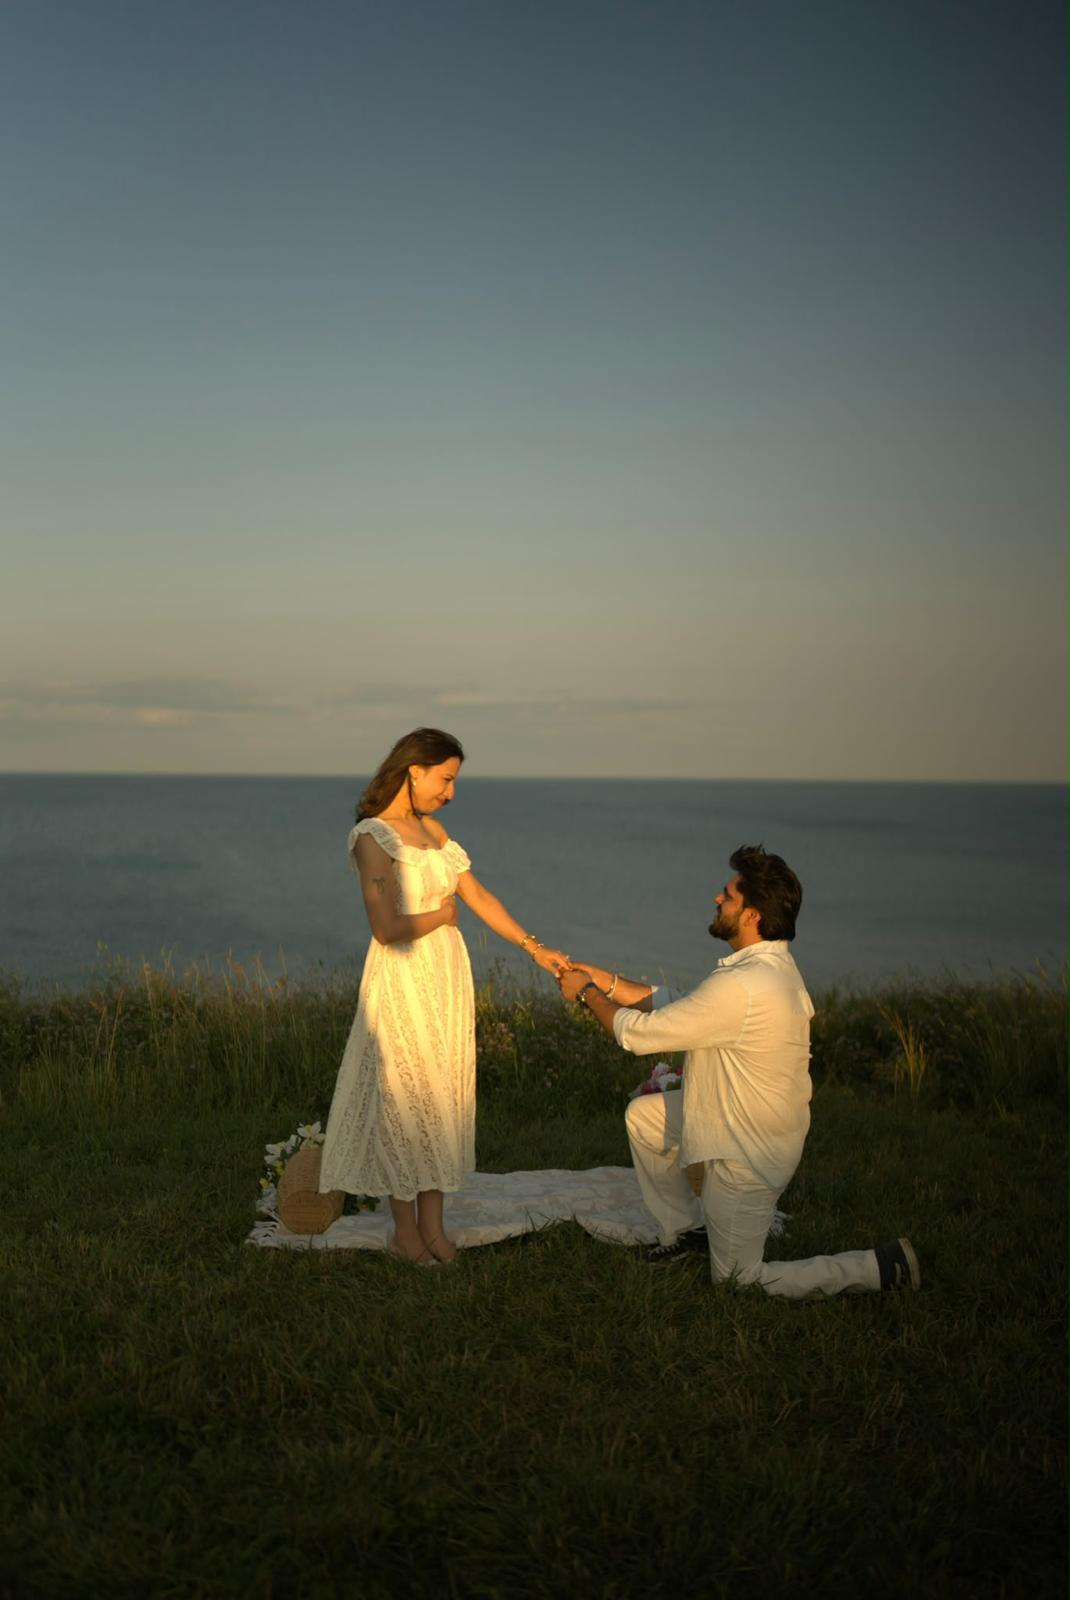
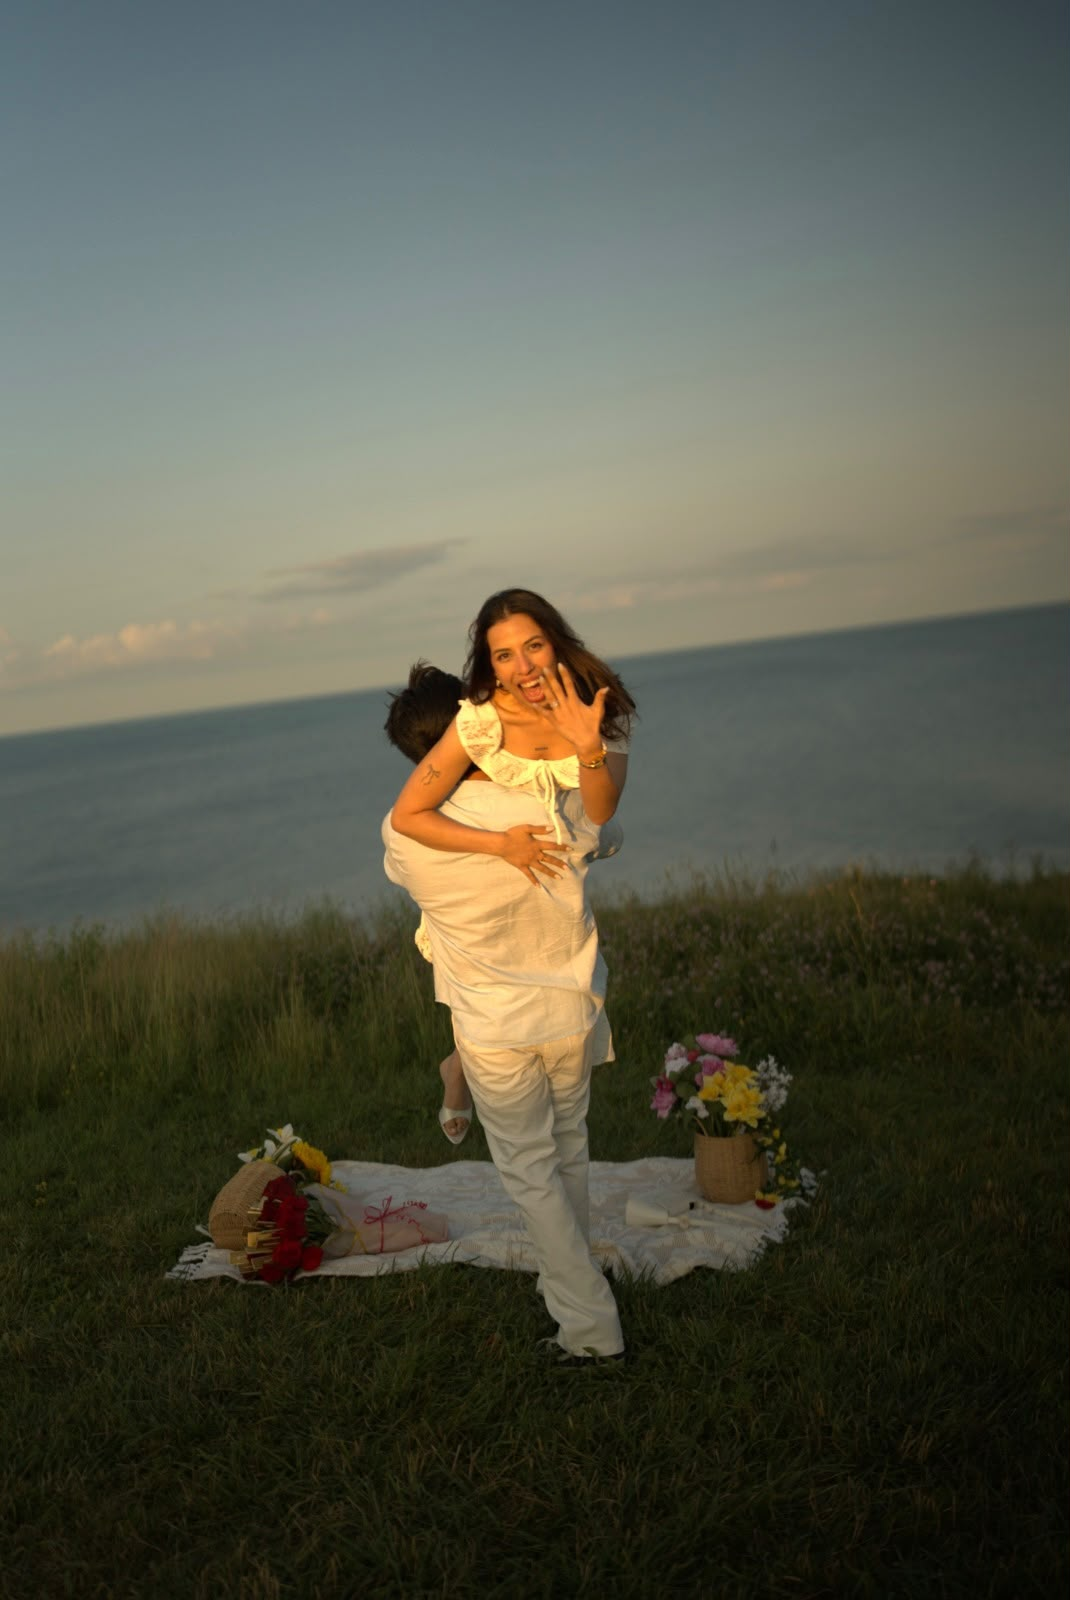
Update the proposal photos and tell the evening in order
1, 2, 3 are now the question, the ring, and the two of them after. Alt text
describes each rather than repeating one generic line, and the intrinsic
width and height are per photo since the first is 1370x2048 and the other
two are 1070x1600.

Also untracks the copies at the repo root that the previous commit picked
up; src/assets holds the originals.

diff --git a/src/components/Proposal.jsx b/src/components/Proposal.jsx
@@ -1,15 +1,31 @@
 import Reveal from './Reveal.jsx';
 
 /* Imported as modules so Vite fingerprints them into /assets and the paths
-   resolve from any route or host -- no relative-path breakage. */
+   resolve from any route or host -- no relative-path breakage.
+   The order is the order of the evening: the question, the yes, the after. */
 import photo1 from '../assets/1.jpeg';
 import photo2 from '../assets/2.jpeg';
 import photo3 from '../assets/3.jpeg';
 
 const photos = [
-  { src: photo1, alt: 'Vaishali and Sumit on the day he asked' },
-  { src: photo2, alt: 'Vaishali and Sumit celebrating the proposal' },
-  { src: photo3, alt: 'Vaishali and Sumit together after the proposal' },
+  {
+    src: photo1,
+    width: 1370,
+    height: 2048,
+    alt: 'Sumit down on one knee, holding Vaishali’s hand, on the grass above the lake at sunset',
+  },
+  {
+    src: photo2,
+    width: 1070,
+    height: 1600,
+    alt: 'Sumit lifting Vaishali off her feet as she holds up her hand to show the ring',
+  },
+  {
+    src: photo3,
+    width: 1070,
+    height: 1600,
+    alt: 'Vaishali and Sumit sitting together among flowers, she is holding sunflowers',
+  },
 ];
 
 export default function Proposal() {
@@ -25,7 +41,14 @@ export default function Proposal() {
     >
       {photos.map((p) => (
         <figure className="frame" key={p.src}>
-          <img src={p.src} alt={p.alt} width="1070" height="1600" loading="lazy" decoding="async" />
+          <img
+            src={p.src}
+            alt={p.alt}
+            width={p.width}
+            height={p.height}
+            loading="lazy"
+            decoding="async"
+          />
         </figure>
       ))}
     </Reveal>
